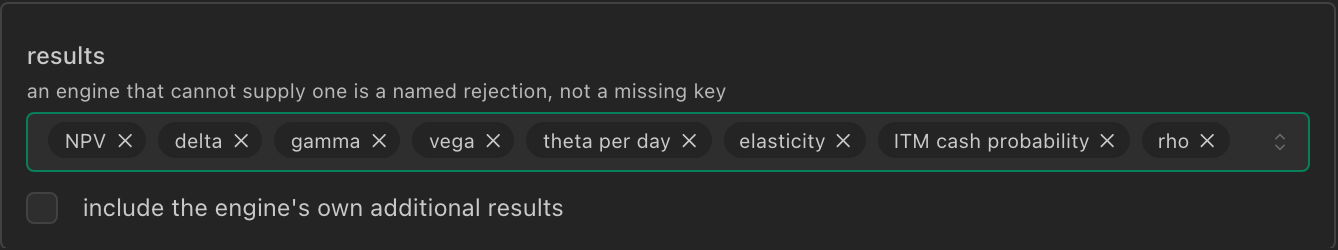
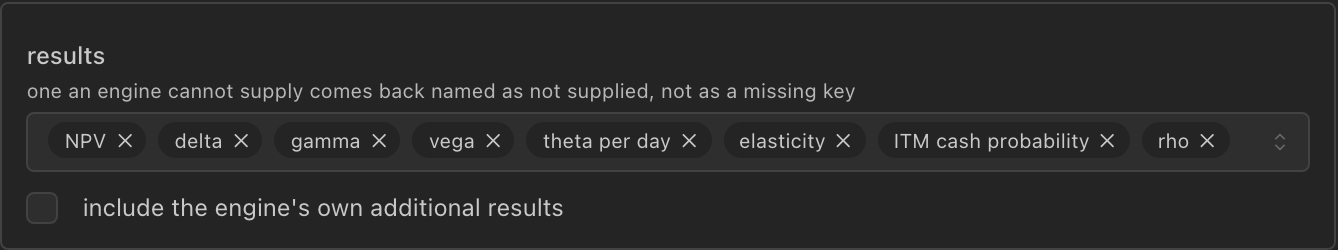
Read progress numbers only when a frame carries them, and say what an absent result is
Progress.running_npv, running_standard_error and scenario_point have
presence now (proto f7f8174). A batch entry that failed reported a
running NPV of 0.0, which the trace drew as a price of zero; the store
now holds null for a number the frame did not carry, the trace skips it,
and the sweep and Monte Carlo panels show no running NPV rather than one
nobody computed.

The results control said a result an engine cannot supply is a "named
rejection". It comes back named as not supplied, with the price, as the
guide's own next section says. The line, the comment behind it, the
screenshot and its alt text in both languages now agree.

Claude-Session: https://claude.ai/code/session_01MJtVZSjTSgWshw7miPwQ9g

diff --git a/src/store/requestsSlice.ts b/src/store/requestsSlice.ts
@@ -4,12 +4,14 @@ import type {RequestKind} from "@/protocol/client";
 
 export type RequestStatus = "in-flight" | "stalled" | "ok" | "error";
 
+/** The three numbers are null when the frame did not carry them: a batch
+ *  entry that failed has no running NPV, and 0 would read as a price. */
 export interface ProgressState {
     completed: string;
     total: string;
-    runningNpv: number;
-    runningStandardError: number;
-    scenarioPoint: number;
+    runningNpv: number | null;
+    runningStandardError: number | null;
+    scenarioPoint: number | null;
 }
 
 /** One reported point of a long calculation. Kept as a series because a
@@ -76,8 +78,9 @@ export const requestsSlice = createSlice({
             // A sweep reports per point and a batched Monte Carlo per batch;
             // both are bounded by what the user asked for, so the series is
             // capped rather than trusted.
-            if (entry.trace.length < TRACE_LIMIT) {
-                entry.trace.push({completed, npv: action.payload.progress.runningNpv});
+            const npv = action.payload.progress.runningNpv;
+            if (npv !== null && entry.trace.length < TRACE_LIMIT) {
+                entry.trace.push({completed, npv});
             }
         },
         stalled(state, action: PayloadAction<string>) {

diff --git a/src/store/requestsSlice.test.ts b/src/store/requestsSlice.test.ts
@@ -1,0 +1,31 @@
+import {describe, expect, it} from "vitest";
+
+import {requestsActions, requestsSlice} from "./requestsSlice";
+
+const reduce = requestsSlice.reducer;
+const initial = reduce(undefined, requestsActions.started({id: "7", kind: "batch", sessionId: "s", tabId: "t"}));
+
+const progress = (completed: number, runningNpv: number | null) => ({
+    completed: String(completed),
+    total: "4",
+    runningNpv,
+    runningStandardError: null,
+    scenarioPoint: null
+});
+
+describe("progress", () => {
+    it("traces only the points that carried a number", () => {
+        // A batch entry that failed reports no running NPV. It used to read
+        // 0.0, and drew a price of zero into the trace.
+        let state = initial;
+        state = reduce(state, requestsActions.progressed({id: "7", progress: progress(1, 12.5)}));
+        state = reduce(state, requestsActions.progressed({id: "7", progress: progress(2, null)}));
+        state = reduce(state, requestsActions.progressed({id: "7", progress: progress(3, 0)}));
+
+        expect(state.byId["7"]?.trace).toEqual([
+            {completed: 1, npv: 12.5},
+            {completed: 3, npv: 0}
+        ]);
+        expect(state.byId["7"]?.progress?.completed).toBe("3");
+    });
+});

diff --git a/src/protocol/capabilities.ts b/src/protocol/capabilities.ts
@@ -505,9 +505,10 @@ export function rejectsDividendCurve(process: Underlying_Process): boolean {
 // Results
 // ---------------------------------------------------------------------------
 
-/** Sixteen of the enum are mapped. Asking for one an engine cannot supply is a
- *  named rejection, not a missing key — a frontend that asked for vega and got
- *  a map without it cannot tell that from a vega of zero. */
+/** Sixteen of the enum are mapped. One an engine cannot supply comes back
+ *  named in PriceResult.unavailable_results, not as a missing key — a frontend
+ *  that asked for vega and got a map without it cannot tell that from a vega
+ *  of zero — and the price comes back with it. */
 export const OPTION_RESULT_KINDS: Choice<ResultKind>[] = [
     {value: ResultKind.NPV, label: "NPV", availability: "supported"},
     {value: ResultKind.DELTA, label: "delta", availability: "supported"},

diff --git a/src/components/trade/TradeBuilder.tsx b/src/components/trade/TradeBuilder.tsx
@@ -160,7 +160,7 @@ export const TradeBuilder = () => {
                                 <MultiSelect
                                     size="xs"
                                     label="results"
-                                    description="an engine that cannot supply one is a named rejection, not a missing key"
+                                    description="one an engine cannot supply comes back named as not supplied, not as a missing key"
                                     data={optionResultKinds(isQuanto).map(choice => ({value: String(choice.value), label: choice.label, disabled: choice.availability !== "supported"}))}
                                     value={trade.results.map(String)}
                                     onChange={values => dispatch(workbookActions.resultKindsSet(values.map(Number) as ResultKind[]))}

diff --git a/src/protocol/middleware.ts b/src/protocol/middleware.ts
@@ -78,9 +78,9 @@ export function wireMiddleware(client: WireClient): Middleware {
                         progress: {
                             completed: progress.completed.toString(),
                             total: progress.total.toString(),
-                            runningNpv: progress.runningNpv,
-                            runningStandardError: progress.runningStandardError,
-                            scenarioPoint: progress.scenarioPoint
+                            runningNpv: progress.runningNpv ?? null,
+                            runningStandardError: progress.runningStandardError ?? null,
+                            scenarioPoint: progress.scenarioPoint ?? null
                         }
                     })
                 );

diff --git a/src/components/scenario/ScenarioPanel.tsx b/src/components/scenario/ScenarioPanel.tsx
@@ -143,7 +143,8 @@ export const ScenarioPanel = () => {
                     <div style={{marginTop: 8}}>
                         <Progress value={(completed / total) * 100} size="sm" />
                         <Text fz="xs" c="dimmed" mt={2}>
-                            point {completed} of {total} · running NPV {progress.runningNpv.toFixed(4)}
+                            point {completed} of {total}
+                            {progress.runningNpv !== null && ` · running NPV ${progress.runningNpv.toFixed(4)}`}
                         </Text>
                     </div>
                 )}

diff --git a/src/session/monteCarlo.integration.test.ts b/src/session/monteCarlo.integration.test.ts
@@ -75,7 +75,8 @@ describe.skipIf(!isBackendUp)("batched Monte Carlo", () => {
         const points: {completed: number; npv: number}[] = [];
         client.listen({
             onProgress(_frame, progress) {
-                points.push({completed: Number(progress.completed), npv: progress.runningNpv});
+                // A batched Monte Carlo reports its running mean on every frame.
+                points.push({completed: Number(progress.completed), npv: progress.runningNpv ?? Number.NaN});
             }
         });
 

diff --git a/src/components/mc/McPanel.tsx b/src/components/mc/McPanel.tsx
@@ -68,7 +68,7 @@ export const McPanel = () => {
                                 </Text>
                             </>
                         )}
-                        {run.progress && (
+                        {run.progress?.runningNpv != null && (
                             <Text fz="xs" ff="monospace" mt={4}>
                                 running NPV {run.progress.runningNpv.toFixed(6)}
                             </Text>

diff --git a/doc/results.md b/doc/results.md
@@ -24,7 +24,7 @@ result kinds you want and the answer is a map keyed by those names.
 The formulas are in {doc}`maths/greeks`.
 
 ```{figure} images/results-kinds.png
-:alt: The results control: pills reading NPV, delta, gamma, vega, theta per day, elasticity, ITM cash probability and rho, under a description saying an engine that cannot supply one is a named rejection rather than a missing key, and a checkbox below for the engine's own additional results.
+:alt: The results control: pills reading NPV, delta, gamma, vega, theta per day, elasticity, ITM cash probability and rho, under a description saying one an engine cannot supply comes back named as not supplied rather than as a missing key, and a checkbox below for the engine's own additional results.
 :width: 100%
 
 Asked for by name, one pill each; the NPV comes whether or not it is there. The
